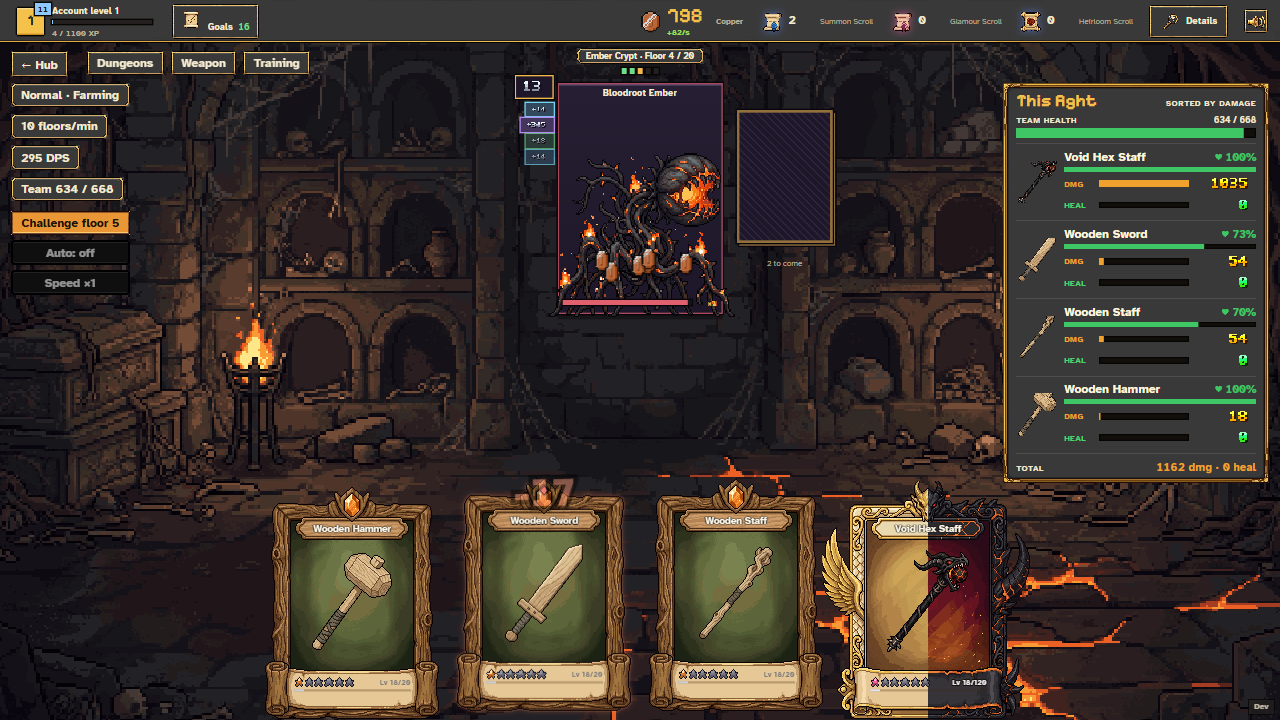
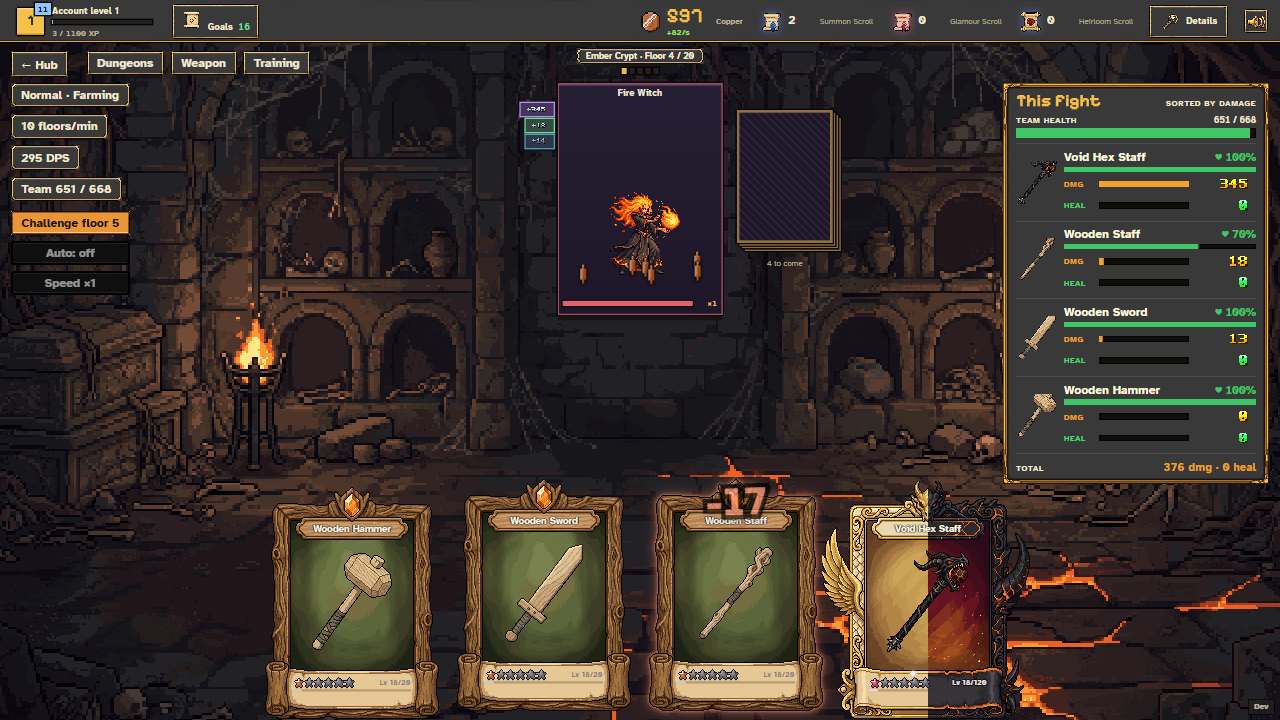
Pixelify headings: no ligatures (This Fight read as This Aght)

diff --git a/src/renderer/src/stage/arena.css b/src/renderer/src/stage/arena.css
@@ -758,6 +758,7 @@ html .du-verdict[data-kind='defeat']:not(#_px) {
 }
 .du-skill b {
   font-family: var(--bi-font-display);
+  font-variant-ligatures: none;
   font-size: 2.2em;
   font-style: italic;
   font-weight: 900;
@@ -785,6 +786,7 @@ html .du-verdict[data-kind='defeat']:not(#_px) {
   z-index: 6;
   pointer-events: none;
   font-family: var(--bi-font-display);
+  font-variant-ligatures: none;
   font-style: italic;
   font-weight: 900;
   letter-spacing: 2px;
@@ -891,6 +893,7 @@ html .du-verdict[data-kind='defeat']:not(#_px) {
 .du-sheet__title {
   margin: 0;
   font-family: var(--bi-font-display);
+  font-variant-ligatures: none;
   font-size: 26px;
   line-height: 1;
   color: var(--bi-frame-accent, var(--du-gold));

diff --git a/src/renderer/src/hub/hub.css b/src/renderer/src/hub/hub.css
@@ -96,6 +96,7 @@
   display: grid;
   place-items: center;
   font: 700 16px/1 var(--bi-font-display, monospace);
+  font-variant-ligatures: none;
   color: #1c1c20;
   background: var(--hub-gold, #f2c14e);
   box-shadow: 0 0 0 2px #1c1c20;

diff --git a/src/renderer/src/pages/ascension.css b/src/renderer/src/pages/ascension.css
@@ -336,6 +336,7 @@ html .asc .asc-go.is-no:not(#_px) {
 .asc .asc-go {
   cursor: pointer;
   font-family: var(--bi-font-display, inherit);
+  font-variant-ligatures: none;
 }
 .asc .asc-go:hover:not(.is-no) {
   filter: brightness(1.08);

diff --git a/src/renderer/src/shell/shell.css b/src/renderer/src/shell/shell.css
@@ -623,6 +623,7 @@ body,
   align-items: baseline;
   justify-content: space-between;
   font-family: var(--bi-font-display);
+  font-variant-ligatures: none;
   font-size: 15px;
   font-weight: 600;
   color: var(--bi-chrome-accent);

diff --git a/src/renderer/src/ui/weaponStats.css b/src/renderer/src/ui/weaponStats.css
@@ -420,6 +420,7 @@
 /* skill names in the pixel display font */
 .wst-row__name {
   font-family: var(--bi-font-display, inherit);
+  font-variant-ligatures: none;
   font-size: calc(18px * var(--wzoom, 1));
   font-weight: 400;
 }
